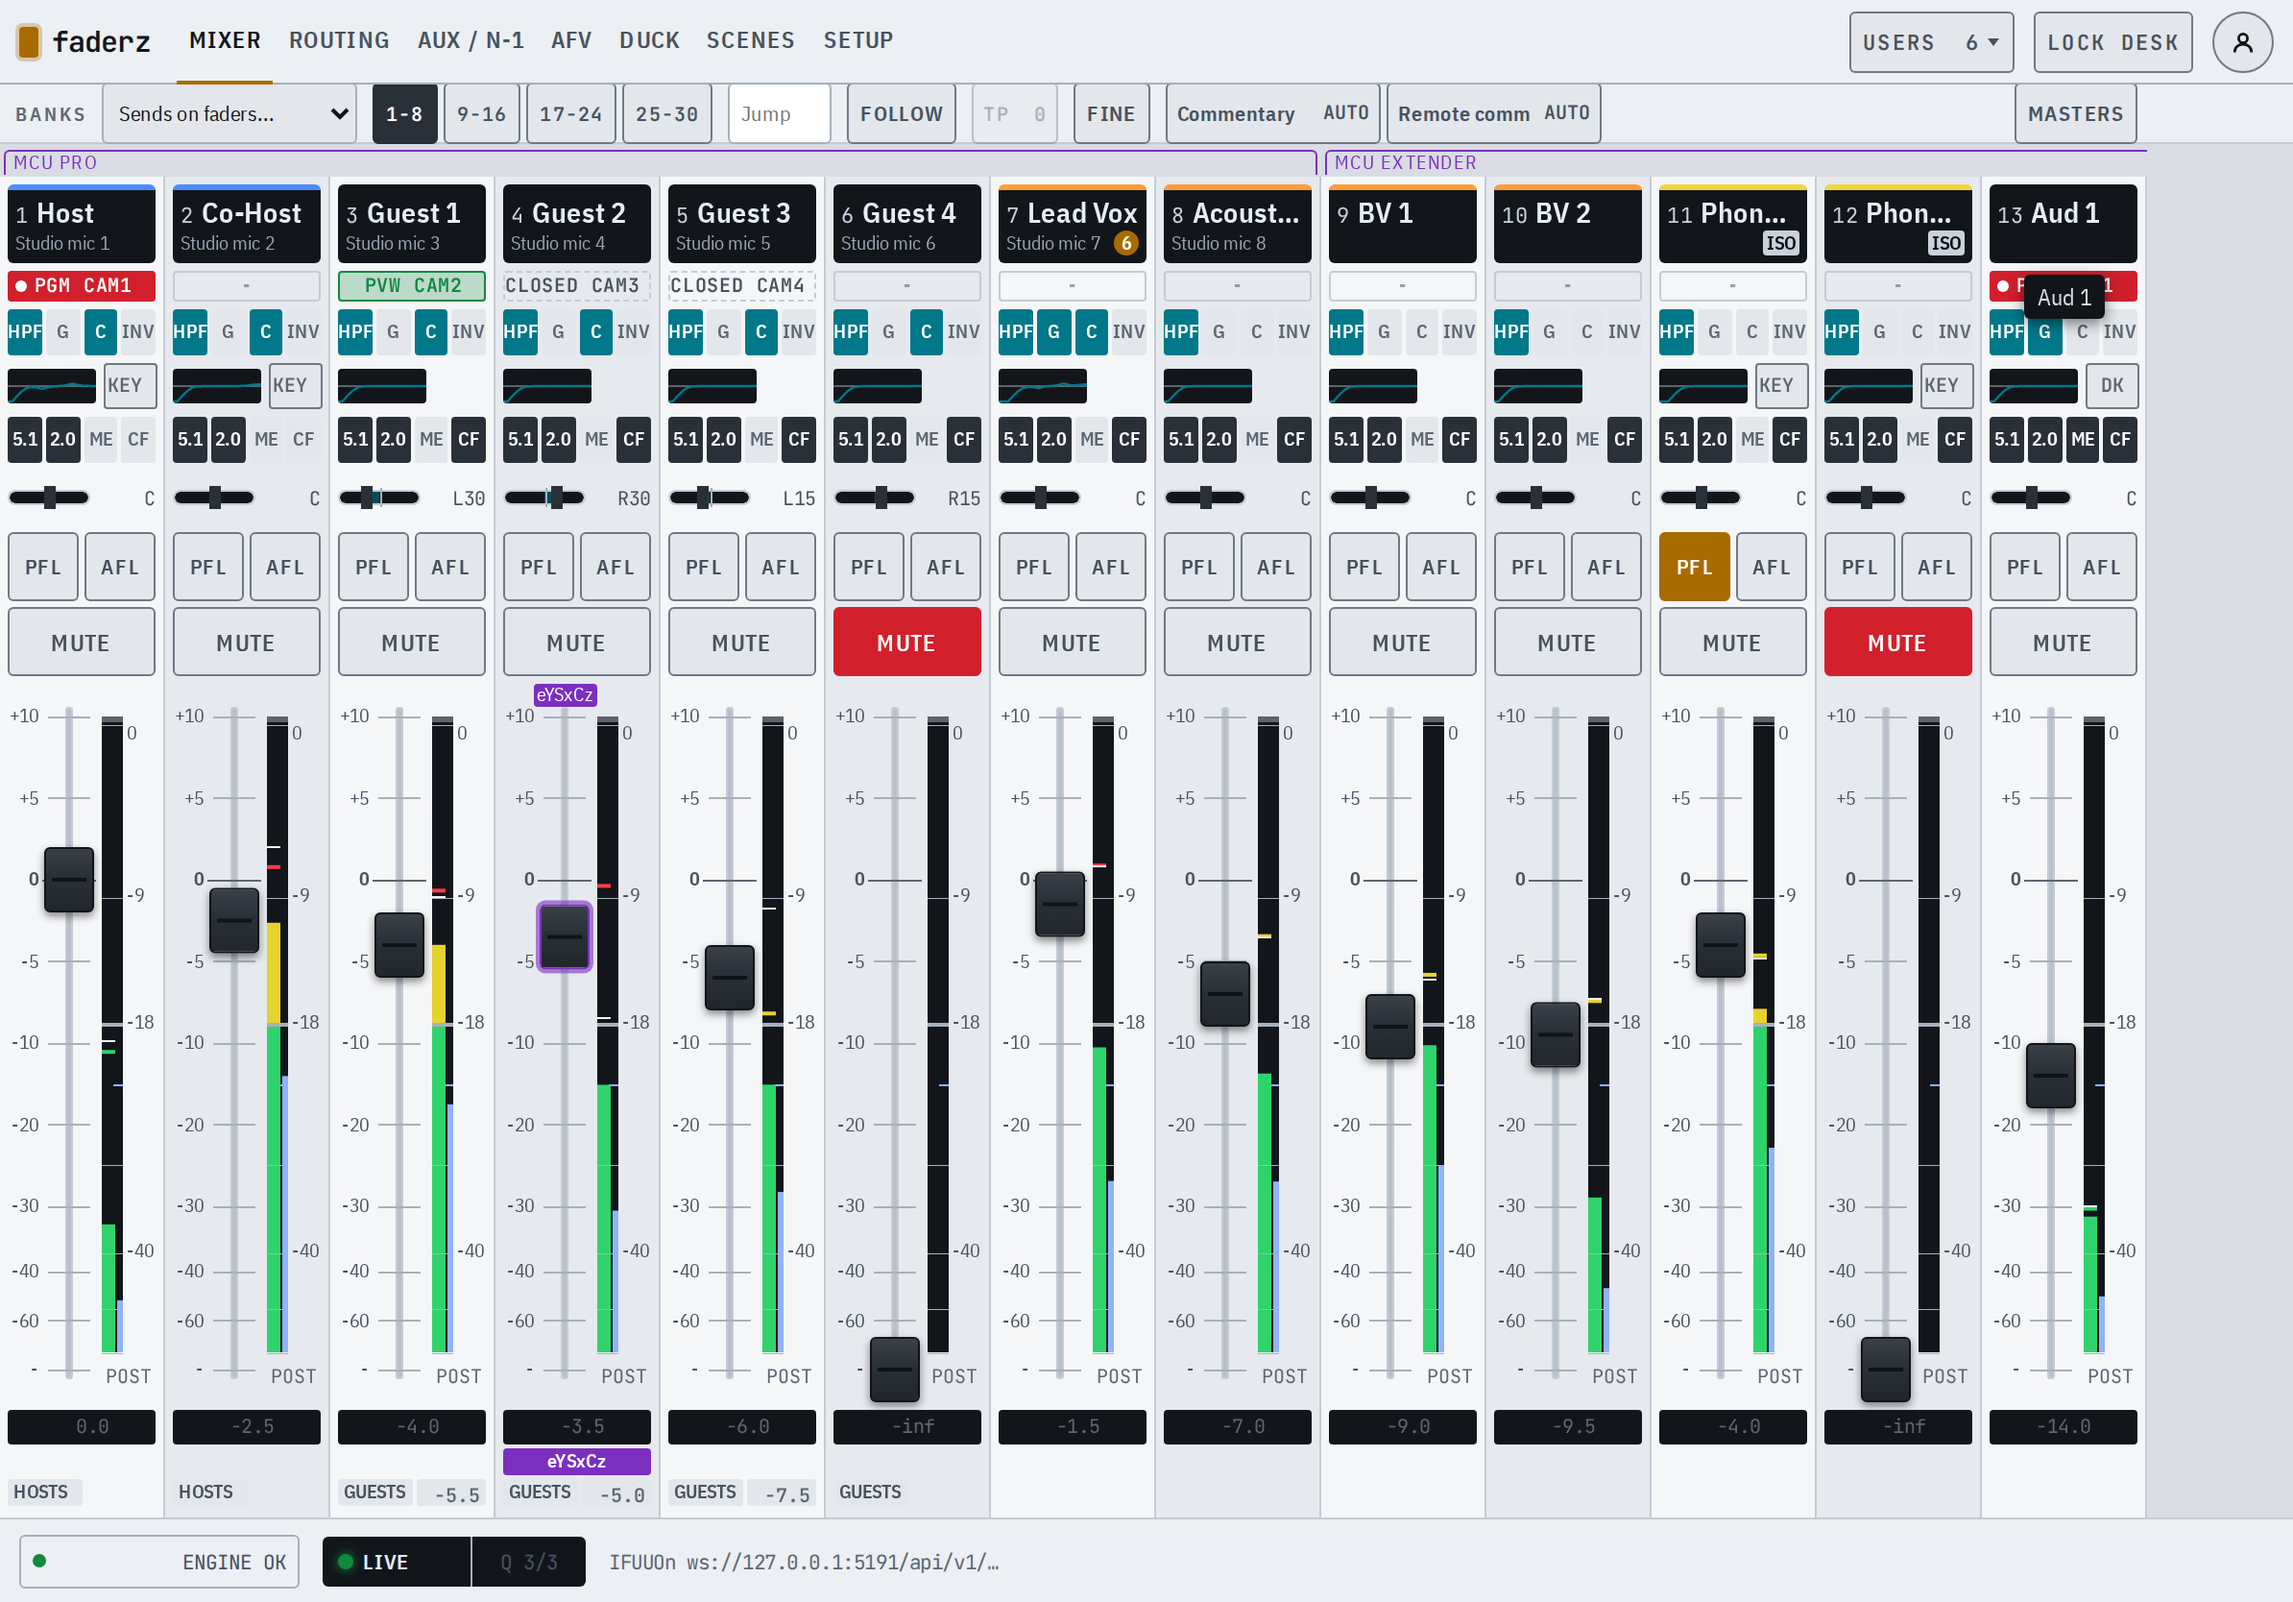
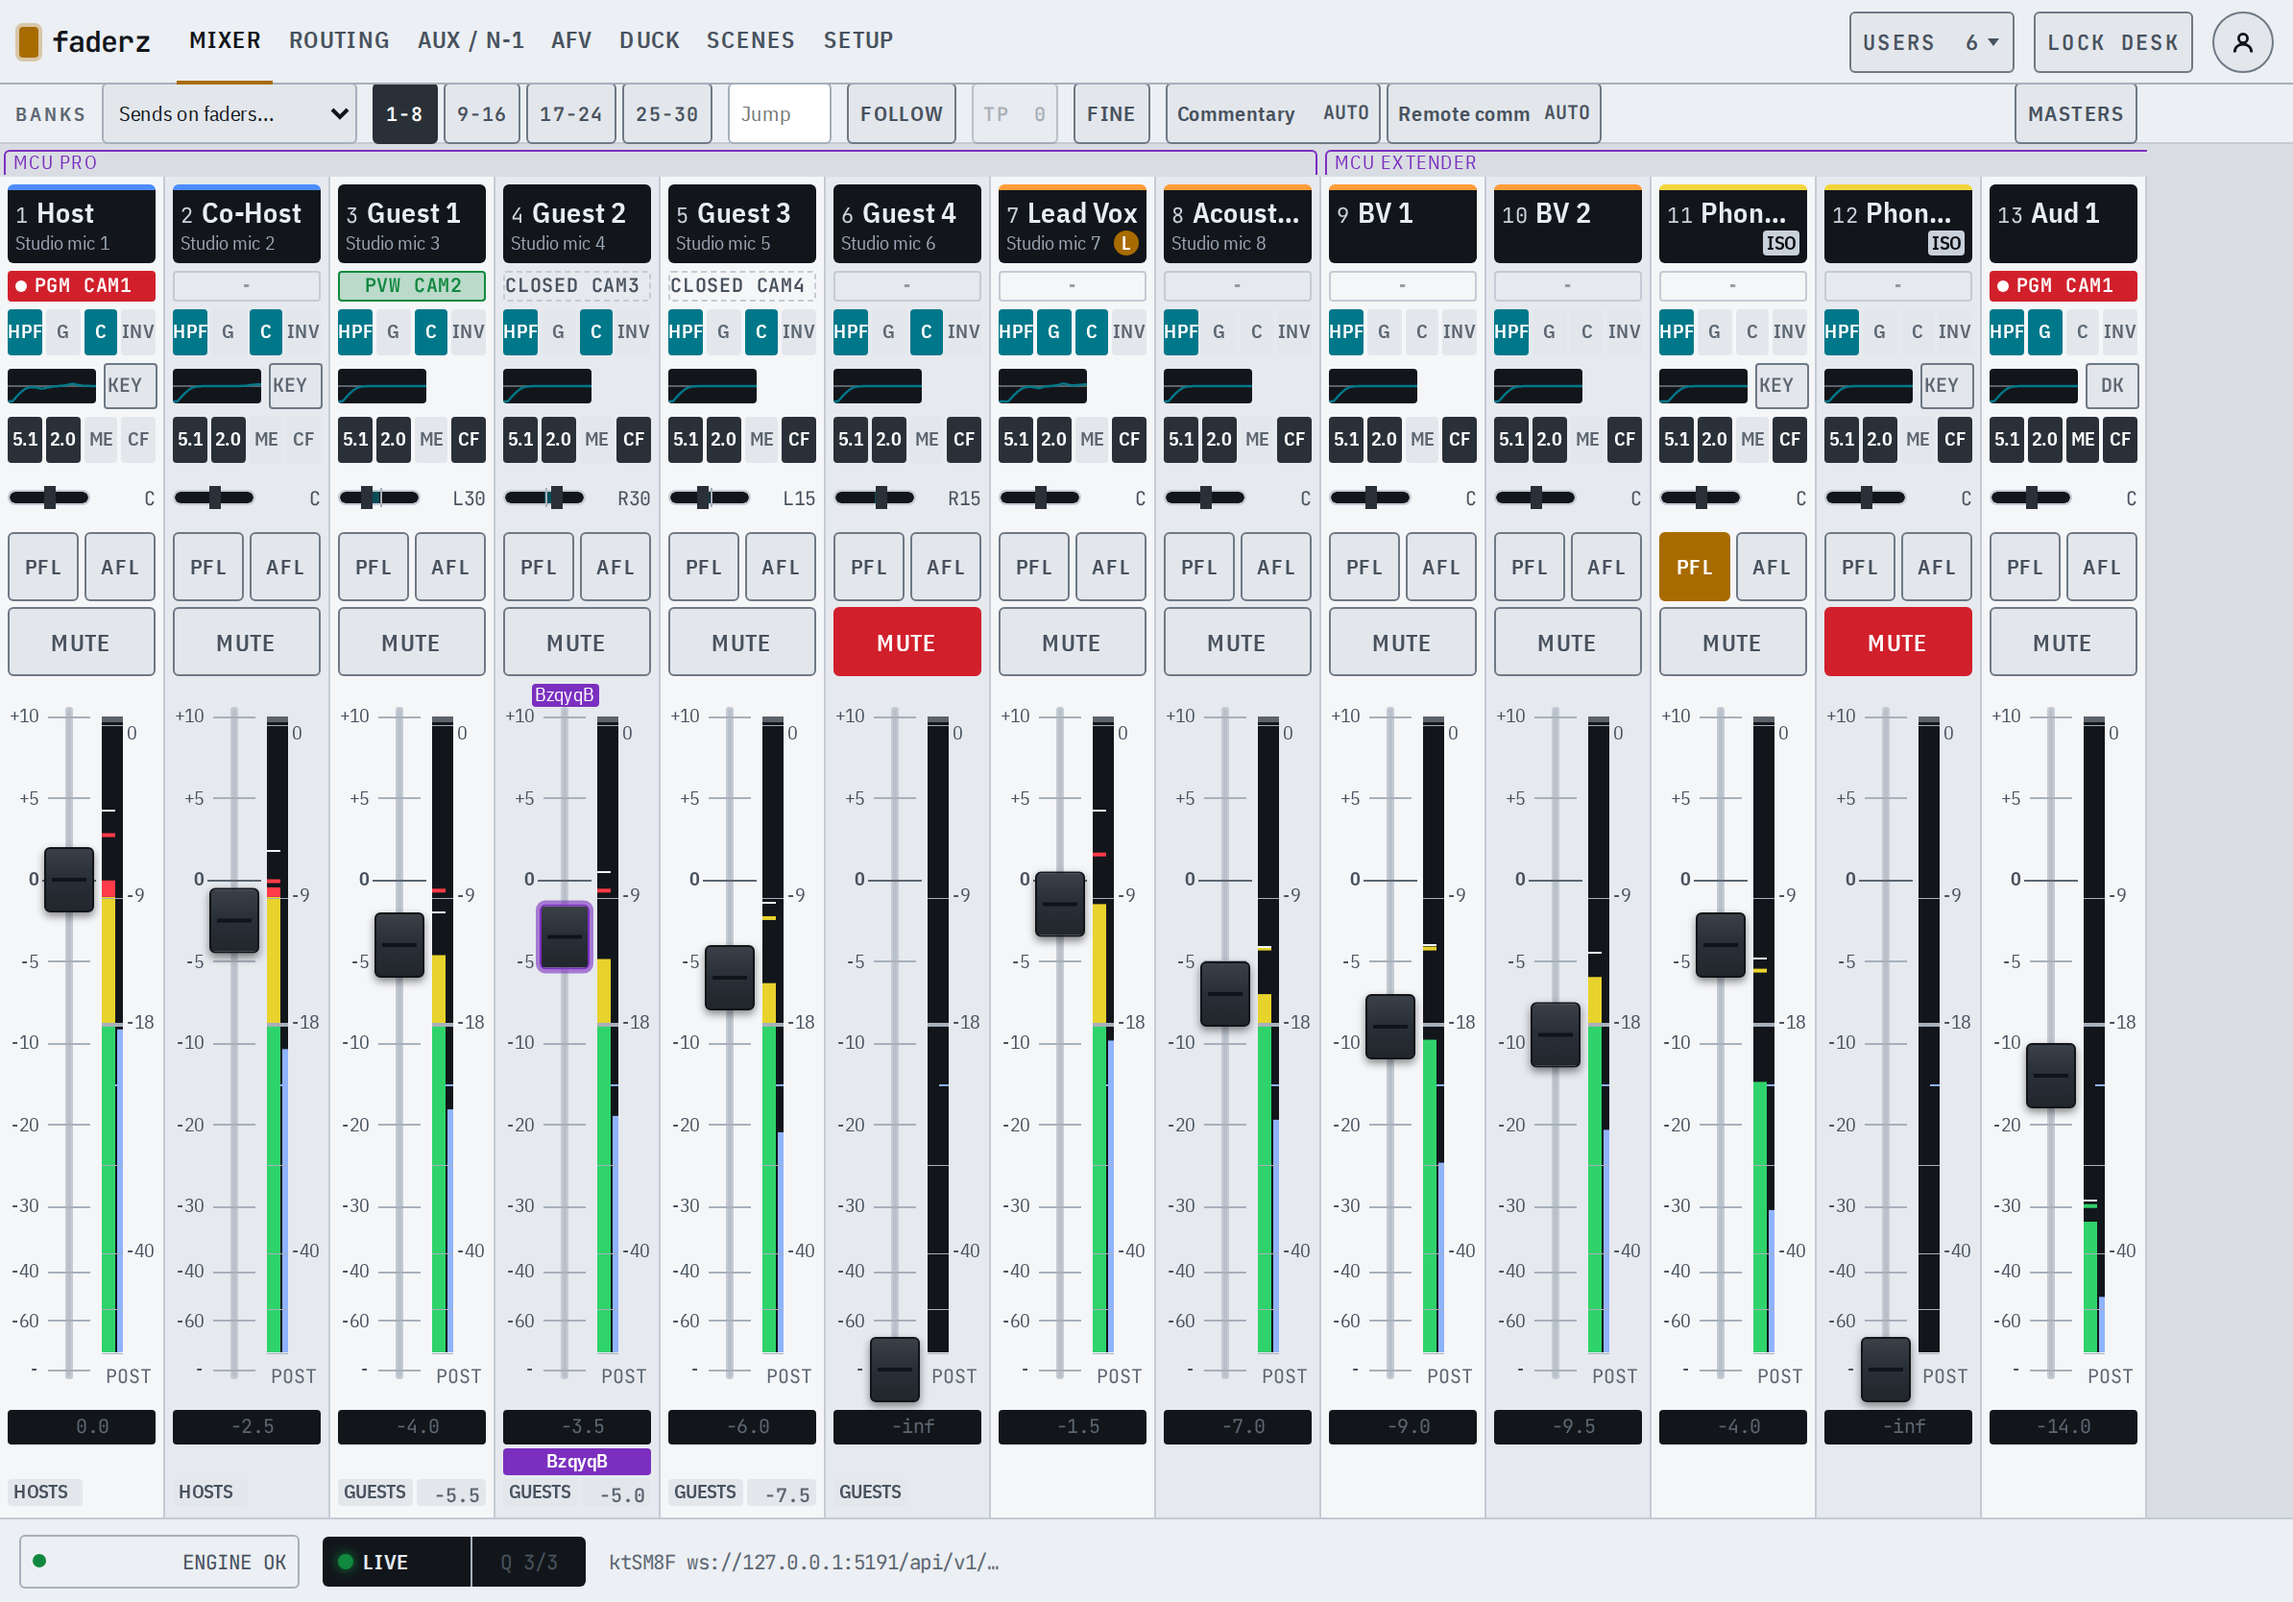
docs: take the tablet and scenes screenshots without stray UI
The pointer stayed over strip 13 after the theme menu closed, and its
tooltip covered the tally chip; the scenes clip cut the header's
console field at its right edge. The spec moves the pointer to a corner
and clips scenes at the full width.

diff --git a/web/tests/screenshots/readme.spec.ts b/web/tests/screenshots/readme.spec.ts
@@ -94,11 +94,15 @@ test('README screenshots', async ({ browser }) => {
 
   await view(alex, 'SCENES');
   await alex.waitForTimeout(500);
-  await alex.screenshot({ path: `${OUT}/scenes.png`, clip: { x: 0, y: 0, width: 1160, height: 560 } });
+  // The full width, so the header's right-hand fields are whole.
+  await alex.screenshot({ path: `${OUT}/scenes.png`, clip: { x: 0, y: 0, width: 1600, height: 560 } });
 
   const tablet = await screen(browser, { ...devices['iPad Pro 11 landscape'], deviceScaleFactor: 2 });
   await tablet.getByTestId('account').click();
   await tablet.getByRole('menuitem', { name: 'Switch to light theme' }).click();
+  // The pointer is left where the menu item was, over a strip whose tooltip it would open.
+  const size = tablet.viewportSize()!;
+  await tablet.mouse.move(size.width - 4, size.height - 4);
   await tablet.waitForTimeout(3000);
   await tablet.screenshot({ path: `${OUT}/tablet-light.png` });
 
